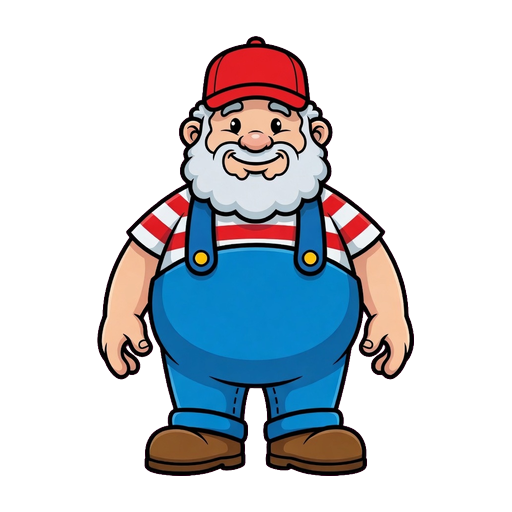
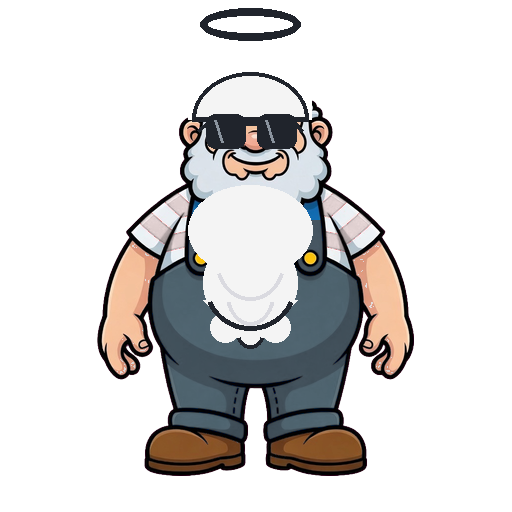
elephanto: pete redesign (white hair, chest beard, sunglasses, black ring), coffee man loses steam, gets purple mask, taller; bosses spin while fighting

Changed region(s): [[0.2812, 0.3438, 0.7188, 0.875], [0.3438, 0.0, 0.625, 0.3125]]

diff --git a/elephanto/src/raycaster.js b/elephanto/src/raycaster.js
@@ -228,9 +228,11 @@ Raycaster.render = function (ctx, W, H) {
     if (ty <= 0.05) continue; // behind the camera
 
     var screenX = (cols / 2) * (1 + tx / ty);     // in columns
-    var size = Math.abs(H / ty) * s.scale;        // in pixels
+    var tall = (s.ent && s.ent.tall) || 1;        // vertical stretch (taller characters)
+    var size = Math.abs(H / ty) * s.scale;        // width in pixels
+    var hsize = size * tall;                      // height in pixels
     var halfC = (size / COL) / 2;                 // half-width in columns
-    var drawY = billboardY(H, ty, s.scale, s.z);  // z lifts flying sprites off the floor
+    var drawY = billboardY(H, ty, s.scale * tall, s.z);  // z lifts flying sprites off the floor
     var startC = Math.max(0, Math.floor(screenX - halfC));
     var endC = Math.min(cols - 1, Math.ceil(screenX + halfC));
     var centerC = Math.max(0, Math.min(cols - 1, Math.round(screenX)));
@@ -242,18 +244,28 @@ Raycaster.render = function (ctx, W, H) {
     if (s.ent && visible) {
       ctx.fillStyle = 'rgba(0,0,0,.32)';
       ctx.beginPath();
-      ctx.ellipse(screenX * COL, drawY + size * 0.98,
+      ctx.ellipse(screenX * COL, drawY + hsize * 0.98,
                   size * 0.34, Math.max(3, size * 0.055), 0, 0, Math.PI * 2);
       ctx.fill();
     }
 
+    // spinning fighters: squash the billboard horizontally with cos(t),
+    // mirroring on the back half of each turn — classic 2D spin
+    var spinning = s.ent && s.ent.spin;
+    var cs = spinning ? Math.cos(now * 9 + (s.ent.id === 'tea' ? 1.6 : 0)) : 1;
+
     ctx.globalAlpha = alpha;
     for (var stripeC = startC; stripeC <= endC; stripeC++) {
       if (zbuf[stripeC] <= ty) continue; // hidden behind a wall
-      var srcX = Math.floor(((stripeC - (screenX - halfC)) / (halfC * 2)) * img.width);
+      var u = (stripeC - (screenX - halfC)) / (halfC * 2);
+      if (spinning) {
+        u = 0.5 + (u - 0.5) * Math.abs(cs);
+        if (cs < 0) u = 1 - u;
+      }
+      var srcX = Math.floor(u * img.width);
       if (srcX < 0 || srcX >= img.width) continue;
       ctx.drawImage(img, srcX, 0, 1, img.height,
-        stripeC * COL, drawY, COL + 1, size);
+        stripeC * COL, drawY, COL + 1, hsize);
     }
     ctx.globalAlpha = 1;
 

diff --git a/elephanto/src/sprites.js b/elephanto/src/sprites.js
@@ -58,8 +58,7 @@ function drawCoffeeMan(g) {
   rrect(g, 33, 2, 26, 14, 4, '#23262d');       // black coffee-cup hat
   g.strokeStyle = '#23262d'; g.lineWidth = 4;  // cup handle
   g.beginPath(); g.arc(61, 9, 5, -1.2, 1.2); g.stroke();
-  g.strokeStyle = 'rgba(255,255,255,.7)'; g.lineWidth = 2; // steam
-  g.beginPath(); g.moveTo(42, -2); g.quadraticCurveTo(44, -6, 46, -2); g.stroke();
+  rrect(g, 27, 18, 38, 16, 8, '#5e35a0');      // purple bandit mask
   eyes(g, 46, 26, 7, true);                    // angry eyes
   g.strokeStyle = '#3a2312'; g.lineWidth = 3;  // frown
   g.beginPath(); g.arc(46, 40, 6, Math.PI * 1.15, Math.PI * 1.85); g.stroke();
@@ -82,16 +81,18 @@ function drawTeaGirl(g) {
 }
 
 function drawPete(g) {
-  rrect(g, 20, 42, 56, 52, 14, '#3a6ea5');     // big blue overalls
-  rrect(g, 30, 42, 10, 26, 4, '#2b5580');      // straps
-  rrect(g, 56, 42, 10, 26, 4, '#2b5580');
+  rrect(g, 20, 46, 56, 32, 14, '#8a9099');     // plain gray tee
+  rrect(g, 24, 72, 48, 22, 8, '#3f4650');      // dark pants
   circle(g, 48, 26, 18, '#f2c9a0');            // head
-  g.fillStyle = '#f4f4f4';                     // white beard
-  g.beginPath(); g.arc(48, 34, 14, 0.1, Math.PI - 0.1); g.fill();
-  rrect(g, 32, 4, 32, 10, 5, '#c0392b');       // red cap
-  circle(g, 48, 5, 4, '#e74c3c');
-  eyes(g, 48, 24, 8, false);
-  circle(g, 48, 30, 3, '#e8a58a');             // nose
+  g.fillStyle = '#f4f4f4';                     // white hair
+  g.beginPath(); g.arc(48, 20, 17, Math.PI, 0); g.fill();
+  g.beginPath();                               // long beard down to the chest
+  g.moveTo(33, 32); g.quadraticCurveTo(30, 62, 48, 72);
+  g.quadraticCurveTo(66, 62, 63, 32); g.closePath(); g.fill();
+  g.strokeStyle = '#20242c'; g.lineWidth = 4;  // black ring floating above
+  g.beginPath(); g.ellipse(48, 4, 13, 4, 0, 0, Math.PI * 2); g.stroke();
+  rrect(g, 33, 21, 30, 9, 4, '#20242c');       // sunglasses hooked on his ears
+  circle(g, 48, 31, 3, '#e8a58a');             // nose
 }
 
 function drawTuado(g) {

diff --git a/elephanto/src/entities.js b/elephanto/src/entities.js
@@ -1,11 +1,11 @@
 // Elephanto — entity factories and world construction. Pure data, no DOM.
 
-function makeBoss(id, name, sprite, x, y) {
+function makeBoss(id, name, sprite, x, y, tall) {
   return {
     kind: 'boss', id: id, name: name, sprite: sprite,
     x: x, y: y, postX: x, postY: y, dir: Math.PI / 2,
     hp: BOSS_LIFE_HP, maxHp: BOSS_LIFE_HP, lives: BOSS_LIVES,
-    attackCd: 0, flash: 0, scale: 0.85
+    attackCd: 0, flash: 0, scale: 0.85, tall: tall || 1, spin: false
   };
 }
 
@@ -40,7 +40,7 @@ function createWorld(role) {
       flashFrom: null, // bearing of the last hit, for the directional vignette
       hintT: 0
     },
-    coffee: makeBoss('coffee', 'Coffee Man', 'coffeeMan', 10.5, 5.0),
+    coffee: makeBoss('coffee', 'Coffee Man', 'coffeeMan', 10.5, 5.0, 1.3),
     tea: makeBoss('tea', 'Tea Girl', 'teaGirl', 13.5, 5.0),
     pete: {
       kind: 'pete', name: 'Uncle Pete', sprite: 'pete',

diff --git a/elephanto/src/game.js b/elephanto/src/game.js
@@ -443,9 +443,12 @@ function updateBoss(b, dt) {
 
   if (!playerInArena && !peteInArena) {
     // nobody to fight: stroll back to post
+    b.spin = false;
     if (dist(b.x, b.y, b.postX, b.postY) > 0.4) moveToward(b, b.postX, b.postY, BOSS_SPEED * 0.5, dt, true);
     return;
   }
+
+  b.spin = true; // bosses twirl while fighting (renderer squashes the billboard)
 
   // pick nearest target that is inside the arena
   var target = null;

diff --git a/elephanto/docs/asset-prompts.md b/elephanto/docs/asset-prompts.md
@@ -22,12 +22,13 @@ Give this whole file to an asset-generation agent (or copy one prompt block at a
 ## Asset list
 
 ### 1. `coffee-man.png` — BAD GUY BOSS
-- Theme colors: purple robe `#5e35a0`, dark purple belt `#3f2268`, tan skin `#a9744f`, black cup-hat `#23262d`, **yellow staff `#ffd23a`**. (Recolored post-generation: robe purple, hat and shoes black.)
+- Theme colors: purple robe `#5e35a0`, dark purple belt `#3f2268`, tan skin `#a9744f`, black cup-hat `#23262d`, purple mask `#5e35a0`, **yellow staff `#ffd23a`**. (Edited post-generation: robe purple, hat and shoes black, steam removed, purple bandit mask added; rendered 1.3x taller in-game.)
 ```
 Flat 2D cartoon game sprite, full body, front-facing, transparent background.
 A grumpy cartoon villain called Coffee Man: a stout man in a purple robe
-with a dark purple belt, wearing a black coffee cup as a hat with a handle and a
-wisp of steam. Angry eyebrows, frowning face, tan skin. He holds a tall bright
+with a dark purple belt, wearing a black coffee cup as a hat with a handle,
+and a purple bandit mask over his eyes. Angry eyebrows, frowning face, tan
+skin. He holds a tall bright
 YELLOW wooden staff with a round knob on top in one hand, planted on the ground.
 Bold outlines, bright flat colors, kid-friendly video game style. The character
 fills most of the frame, centered, standing straight.
@@ -46,14 +47,15 @@ straight, fills most of the frame.
 ```
 
 ### 3. `uncle-pete.png` — GOOD GUY ALLY (gives quests)
-- Theme colors: blue overalls `#3a6ea5`, dark blue straps `#2b5580`, white beard `#f4f4f4`, red cap `#c0392b`, skin `#f2c9a0`.
+- Theme colors: gray-striped shirt, dark slate pants `#3f4650`, white hair and long chest-length beard `#f4f4f4`, black sunglasses and black floating ring `#20242c`, skin `#f2c9a0`. (Edited post-generation: cap replaced by white hair, beard extended to the chest, overalls recolored to plain clothes, sunglasses and a black ring above his head added.)
 ```
 Flat 2D cartoon game sprite, full body, front-facing, transparent background.
-A friendly chubby old man called Uncle Pete: big blue overalls with dark blue
-straps, a round belly, a fluffy white beard, a kind smiling face, and a bright
-red baseball cap. Light skin, gentle eyes, pink nose. He looks helpful and
-warm, like a friendly grandpa mechanic. Bold outlines, bright flat colors,
-kid-friendly video game style. Centered, standing straight, fills most of the frame.
+A friendly chubby old man called Uncle Pete: a plain gray-striped shirt and
+dark pants, a round belly, a fluffy white beard reaching his chest, white hair,
+black sunglasses hooked on his ears, and a black ring floating above his head.
+Light skin, pink nose. He looks helpful and warm. Bold outlines, bright flat
+colors, kid-friendly video game style. Centered, standing straight, fills most
+of the frame.
 ```
 
 ### 4. `tuado.png` — GOOD GUY CAT (clumsy, throws lava by accident)
